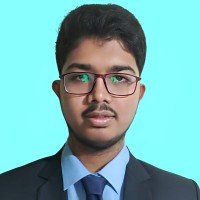
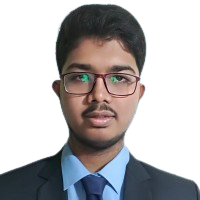
team members section adjusted

diff --git a/src/components/About.jsx b/src/components/About.jsx
@@ -1,9 +1,13 @@
 import React from "react";
 import swaraat from "../assets/swaraat.png";
+import aditya from "../assets/aditya.png";
+import nabeel from "../assets/nabeel.png";
+import syed from "../assets/syed.png";
 
 function About() {
   return (
     <div className="about-section background">
+      <div className="team-heading">Tutorial Video</div>
       <div className="video">
         <iframe
           src="https://www.youtube.com/embed/n3ITmdALc7o?autoplay=1&mute=1"
@@ -20,12 +24,12 @@ function About() {
         </div>
       </div>
       <div className="team" id="team">
-        <div className="team-heading">Developer Team</div>
+        <div className="team-heading">Team</div>
         <div className="team-members">
           <div className="members">
             <div>
               <img
-                src="https://media.licdn.com/dms/image/v2/D4D03AQGlzNfXyHR9-w/profile-displayphoto-shrink_400_400/profile-displayphoto-shrink_400_400/0/1720377246855?e=1732147200&v=beta&t=G8BFJxcZdq6NUnjJUHWgMwVzc3DDR1Nv1xh3Ycjf9f8"
+                src={aditya}
                 alt=""
               />
             </div>
@@ -37,7 +41,7 @@ function About() {
           <div className="members">
             <div>
               <img
-                src="https://media.licdn.com/dms/image/v2/D4D03AQFujzrZpaytlg/profile-displayphoto-shrink_200_200/profile-displayphoto-shrink_200_200/0/1725627302765?e=2147483647&v=beta&t=WrbWKkcSsXQsBpwqUOSrAqWrojRBaGq8WW7LMpS1w3A"
+                src={nabeel}
                 alt=""
               />
             </div>
@@ -58,7 +62,7 @@ function About() {
           <div className="members">
             <div>
               <img
-                src="https://media.licdn.com/dms/image/v2/D4E03AQH5Xtc0uicckA/profile-displayphoto-shrink_200_200/profile-displayphoto-shrink_200_200/0/1712479195831?e=2147483647&v=beta&t=VyLloNPPEM5EWzpNU9A_opG6-QlhaZ2bPQIaCnRMCPM"
+                src={syed}
                 alt=""
               />
             </div>

diff --git a/src/App.css b/src/App.css
@@ -569,7 +569,7 @@ h1 span:nth-child(7) {
   justify-content: space-around;
   align-items: center;
   min-height: 100vh;
-  padding: 1%;
+  padding: 0% 1%;
   flex-direction: column;
 }
 
@@ -594,6 +594,7 @@ h1 span:nth-child(7) {
   align-items: center;
   font-size: 1.5rem;
   font-weight: bold;
+  color: var(--primary-color);
 }
 
 .team-members {
@@ -603,7 +604,8 @@ h1 span:nth-child(7) {
   color: var(--text-light);
   flex-wrap: wrap;
   column-gap: 2%;
-  /* min-height: 60vh; */
+  min-height: 60vh;
+  padding: 1%;
 }
 
 .member-details {
@@ -618,20 +620,26 @@ h1 span:nth-child(7) {
 .members {
   width: 20%;
   display: flex;
-  justify-content: center;
+  justify-content: space-around;
   align-items: center;
   flex-direction: column;
+  border-radius: 10px;
+  height: 60vh;
+  box-shadow: -8px 8px 20px rgba(0, 0, 0, 0.4);
 }
 
 .members img {
   width: 200px;
   height: 200px;
   border-radius: 100%;
+  background-color: whitesmoke;
 }
 
 iframe {
   width: 600px;
   height: 400px;
+  border: 5px solid var(--primary-color);
+  border-radius: 20px;
 }
 
 /* For devices with a maximum width of 600px (Mobile Phones) */
@@ -743,14 +751,15 @@ iframe {
 
   .team-members {
     flex-direction: column;
-    row-gap: 5%;
+    row-gap: 20px;
     min-height: 100vh;
+    padding: 2%;
   }
 
   .member-details {
     flex-direction: column;
     height: 20%;
-    padding: 5% 0;
+    padding: 0;
   }
 
   .members {
@@ -874,14 +883,15 @@ iframe {
 
   .team-members {
     /* flex-direction: column; */
-    row-gap: 5%;
+    row-gap: 20px;
     min-height: 100vh;
+    padding: 3%;
   }
 
   .member-details {
     /* flex-direction: column; */
     height: 20%;
-    padding: 5% 0;
+    padding: 0;
   }
 
   .members {
